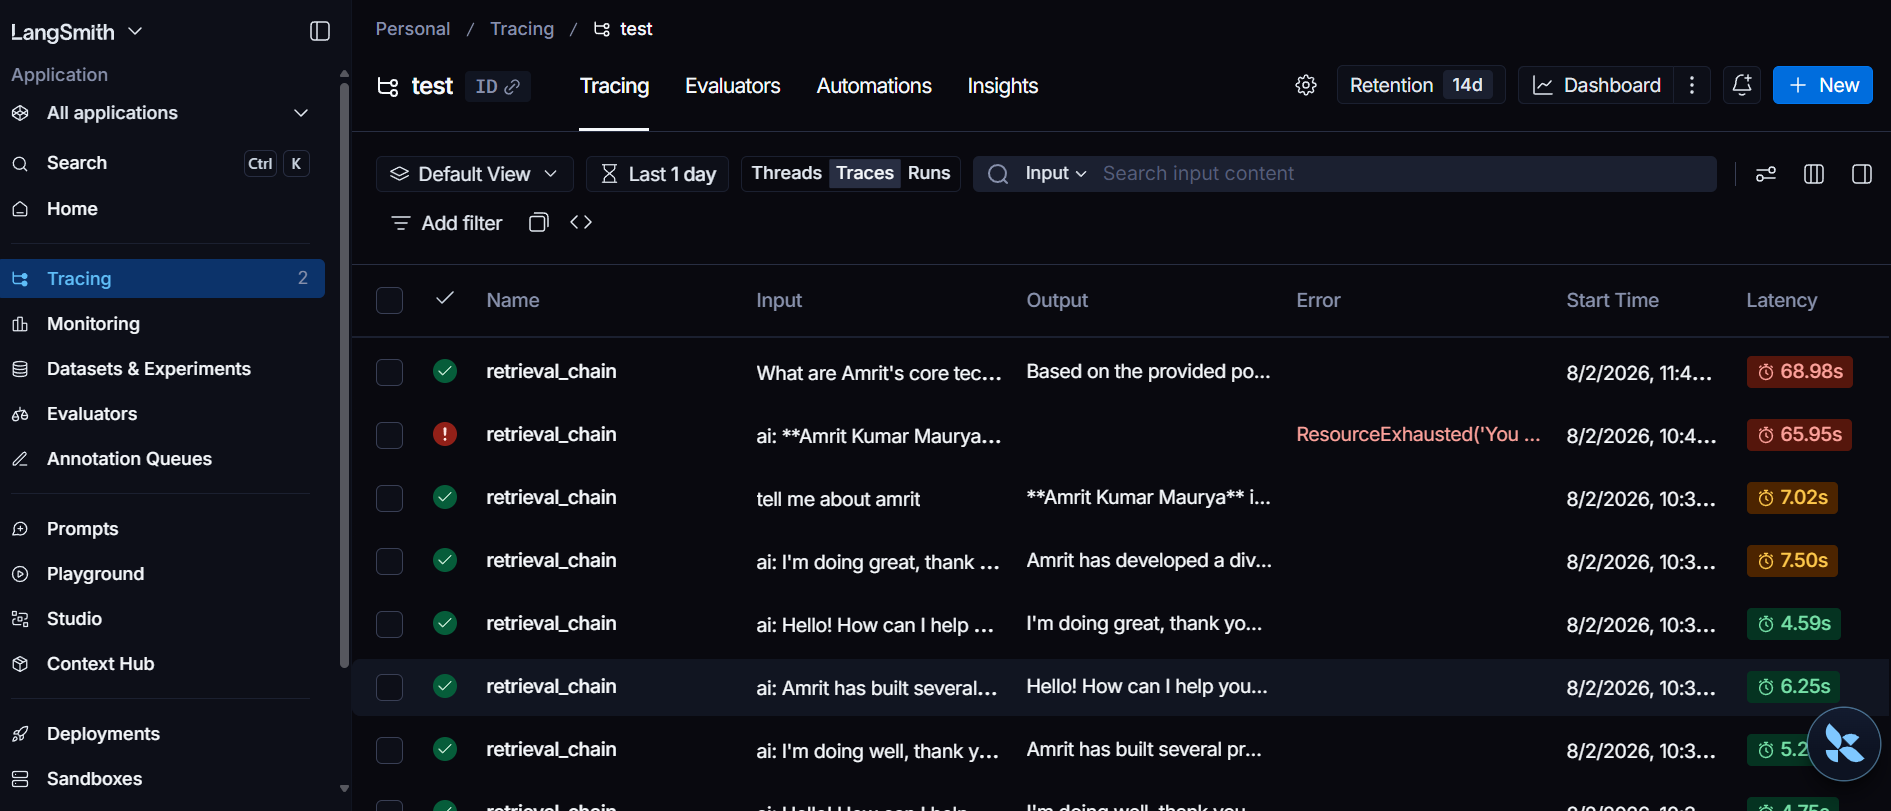
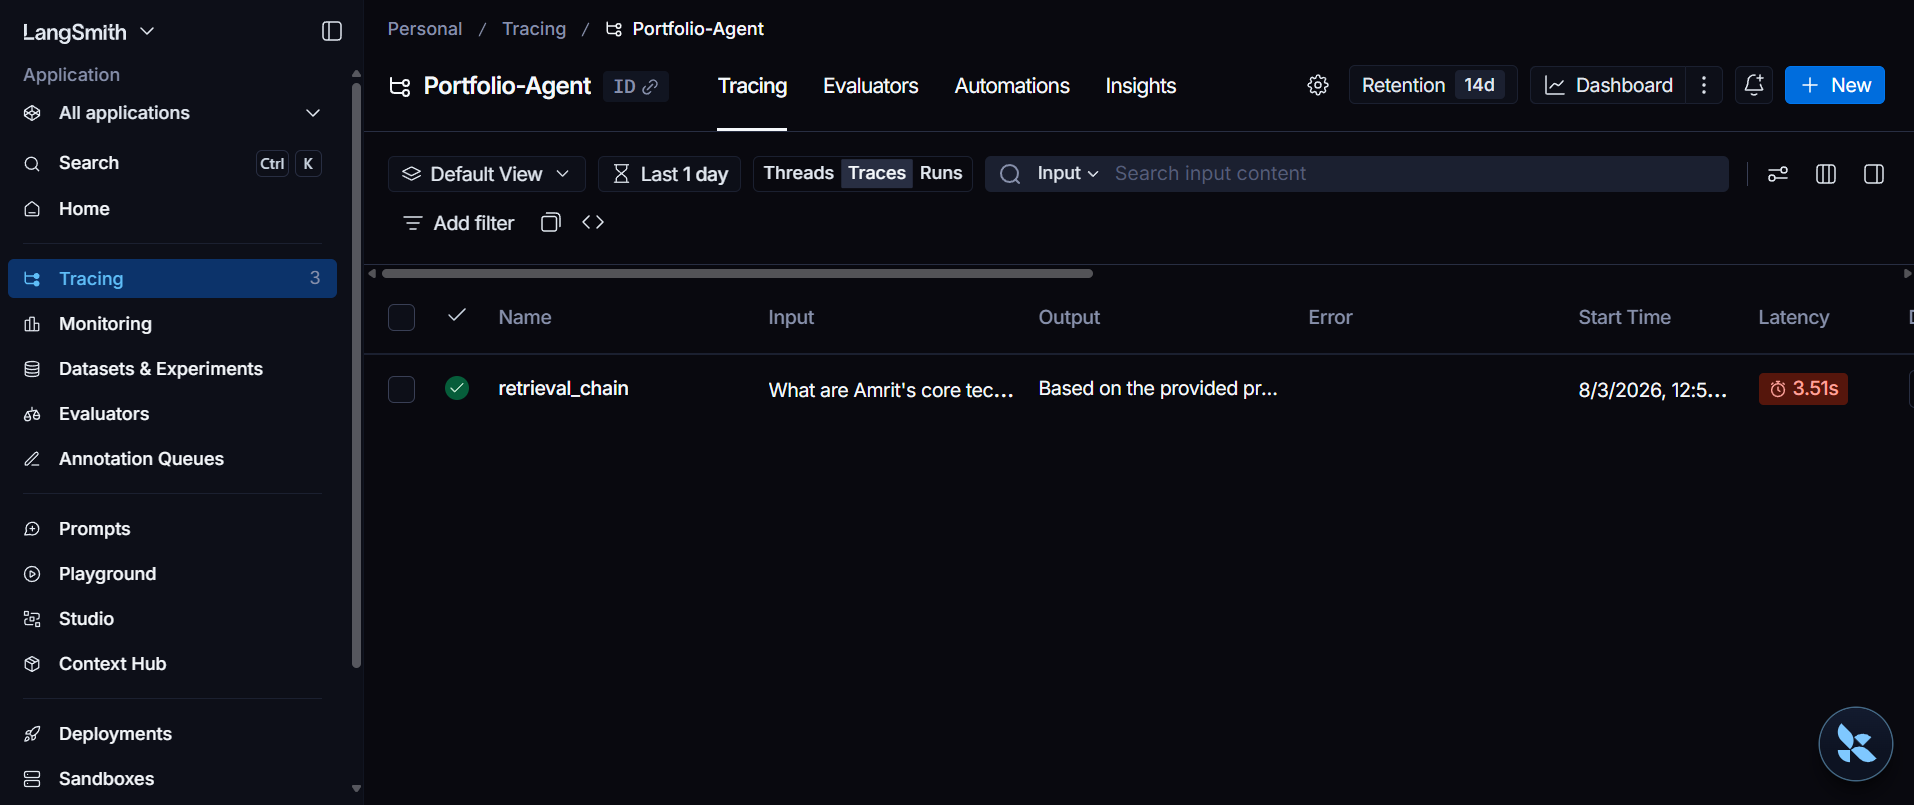
updated readme file

diff --git a/README.md b/README.md
@@ -1,73 +1,131 @@
-# A RAG application using LangChain
-## RAG Project Description
-This project shows a LangChain retrieval pipeline served with FastAPI + Strawberry GraphQL with vector search in Pinecone and displayed via a Flask frontend application.
-<br>    
-Please find it hosted here: 
-<br>
-### A Screenshot of the Application
+# A RAG Application Using LangChain
+
+[![Python](https://img.shields.io/badge/Python-3.12%2B-blue?logo=python&logoColor=white)](https://python.org)
+[![FastAPI](https://img.shields.io/badge/FastAPI-0.116.1%2B-009688?logo=fastapi&logoColor=white)](https://fastapi.tiangolo.com)
+[![Flask](https://img.shields.io/badge/Flask-2.2.5%2B-000000?logo=flask&logoColor=white)](https://flask.palletsprojects.com)
+[![LangChain](https://img.shields.io/badge/LangChain-0.3.27-1C3C3A)](https://github.com/langchain-ai/langchain)
+[![Pinecone](https://img.shields.io/badge/Pinecone-VectorDB-emerald)](https://pinecone.io)
+
+This project showcases a Retrieval-Augmented Generation (RAG) pipeline utilizing a LangChain retrieval architecture. The backend is served via **FastAPI + Strawberry GraphQL** (with vector search in **Pinecone**), and the user interface is built on **Flask**.
+
+🔗 **Live Deployment:** [portfolio-agent-sk6z.onrender.com](https://portfolio-agent-sk6z.onrender.com/)
+
+---
+
+## 📱 Application Preview
+
 ![A screenshot of the application](images/main_app.png)
-A screenshot of the application is shown above. The user enters a question in the text area and clicks the "Ask" button. The question is sent to the FastAPI backend which calls the function to start executing the LangChain retrieval chain. The answer is returned through the same pipeline and displayed on the Flask Frontend application.     
-<br>
-The RAG application uses my personal website https://amrit-2002.github.io/Portfolio/ as the source of information to answer questions. The website is crawled and the contents are stored in Pinecone for later retrieval.
-<br>
 
-### The Indexing Process
+The RAG application uses my personal website [amrit-2002.github.io/Portfolio](https://amrit-2002.github.io/Portfolio/) as the source of information to answer questions. The website is crawled, chunked, embedded, and stored in Pinecone for semantic retrieval.
+
+### Try Asking:
+* *"What projects are on his website?"*
+* *"What tools does he use for data engineering?"*
+
+---
+
+## ⚙ How It Works
+
+### 1. The Indexing Process
 ![Abstract tech background](images/indexing.png)
-A crawler crawls my website to get all loadable links. Then the contents of the links are loaded and chunked for easier processing by the models. Embedding are created from the chunks and stored in Pinecone for later retrieval.
+A crawler crawls the target website to discover all loadable links. The contents of these pages are extracted, chunked for context-window optimization, converted into vector embeddings using Google's `gemini-embedding-2-preview` model, and stored in a Pinecone vector database.
 
-### Try asking
-1. “What projects are on his website?”    
-1. “What tools does he use for data engineering?”    
-
-### The Question-and-Answer Process
+### 2. The Question-and-Answer Process
 ![Abstract tech background](images/retrieval.png)
-The question is entered into the Flask frontend application. It's sent to the FastAPI GraphQL backend which calls the function to start executing the LangChain retrieval chain. An embedding is created from the question and a similarity search done in Pinecone to find semantically related text to the question.      
-<br>
-This context is added to the question to create a prompt for Google's Gemini Flash chat model to generate the answers. The answer is returned through the same pipeline and displayed on the Flask Frontend application.     
-<br>
-This RAG application can be used for any website. Just change the website in the code on GitHub.
+When a user enters a question, the Flask frontend sends a request to the FastAPI GraphQL backend. The backend computes the embedding of the query, performs a similarity search in Pinecone to find the most relevant context, and passes both the query and context to Google's Gemini Flash chat model to generate a factual response.
 
-### To run the application
-1. Clone the repository
-1. Install the required packages using `pip install -r requirements.txt`
-1. Set the required environment variables in a `.env` file:
-   - GOOGLE_API_KEY=Your_Google_API_key
-   - PINECONE_API_KEY=Your_Pinecone_API_key
-   - LANGSMITH_API_KEY=Your_Pinecone_environment
-   - LANGSMITH_TRACING=true
-1. Run the FastAPI backend using `uvicorn app.backend:app --host 0.0.0.0 --port 8000 --timeout-keep-alive 200`
-1. Run the Flask frontend using `python web/frontend_app.py` for development or `gunicorn -w 4 -b 127.0.0.1:5070 "web.frontend_app:app" --timeout 300` for production.
-1. Go to `http://localhost:5070` to access the application
+---
 
-### Why LangChain?
-LangChain provides built-in retrieval chain helpers (`create_history_aware_retriever`, `create_retrieval_chain`, `create_stuff_documents_chain`) that handle the standard RAG pattern out of the box, including reformulating follow-up questions into standalone queries using chat history. It also integrates with LangSmith, which traces all activities on the application and gives insight on what is going on. See the screenshot below of the tracing of the application on LangSmith — note that detailed traces require a paid LangSmith account.
-![LangSmith tracing of the application](images/langsmith.png)   
+## 🚀 Getting Started
 
-We can see the steps of the application and how long each step took. This is useful for debugging and optimizing the application. We can also see the inputs and outputs of each step, which is useful for understanding how the application works.
-![LangSmith tracing of the application](images/langsmith_trace.png)   
+### Prerequisites
+You will need API keys for the following services:
+* **Google Gemini AI** (for embedding generation and chat responses)
+* **Pinecone** (vector search database)
+* **LangSmith** (optional, for tracing and observability)
 
-For more complex agentic applications where explicit state management and branching control flow matter, LangGraph would be a natural next step on top of LangChain.     
+### Installation & Setup
 
-### Note
-You'll need the necessary API keys and access to the services used in this project in your environment to run it.
-I recommend using a virtual environment for better dependency management. The process is:
-```
-python3.13 -m venv .venv
-source .venv/bin/activate
-pip install -U pip
-pip install -r requirements.txt
-```
+1. **Clone the repository:**
+   ```bash
+   git clone https://github.com/Amrit-2002/portfolio-agent
+   cd portfolio-agent
+   ```
 
-### Technologies Used
-- LangChain
-- LangSmith
-- FastAPI
-- Strawberry GraphQL
-- Flask
-- Pinecone
-- Google Gemini Flash 3.5 model
-- Python
-- HTML/CSS/JavaScript
-- Google's gemini-embedding-2-preview model
-- BeautifulSoup
-- Python-dotenv
+2. **Set up a Virtual Environment:**
+   * **Windows (PowerShell):**
+     ```powershell
+     python -m venv .venv
+     .venv\Scripts\activate
+     ```
+   * **macOS / Linux:**
+     ```bash
+     python3 -m venv .venv
+     source .venv/bin/activate
+     ```
+
+3. **Install Dependencies:**
+   ```bash
+   pip install --upgrade pip
+   pip install -r requirements.txt
+   ```
+
+4. **Configure Environment Variables:**
+   Create a `.env` file in the root directory:
+   ```env
+   GOOGLE_API_KEY=Your_Google_API_key
+   PINECONE_API_KEY=Your_Pinecone_API_key
+   LANGSMITH_API_KEY=Your_LangSmith_API_key
+   LANGSMITH_TRACING=true
+   ```
+
+### Running the Application Locally
+
+1. **Start the FastAPI Backend:**
+   ```bash
+   python -m uvicorn app.backend:app --host 127.0.0.1 --port 8000 --reload
+   ```
+
+2. **Start the Flask Frontend:**
+   ```bash
+   python web/frontend_app.py
+   ```
+
+3. **Access the Web App:**
+   Open your browser and navigate to `http://localhost:5070`
+
+---
+
+## 🌐 Deployment on Render
+
+This project is configured to run on Render's **Free Tier** in a single consolidated service to minimize cold starts and resource consumption.
+
+### Setup Settings:
+* **Language:** `Python 3`
+* **Build Command:** `pip install -r requirements.txt`
+* **Start Command:** `chmod +x start.sh && ./start.sh`
+* **Configured via:** [`.python-version`](file:///.python-version) (forces Python `3.12.10`) and [`start.sh`](file:///start.sh) (runs both processes concurrently).
+
+---
+
+## 🛠 Technologies Used
+
+* **Orchestration:** LangChain, LangSmith (tracing)
+* **API & Backend:** FastAPI, Strawberry GraphQL
+* **Frontend:** Flask, HTML5, Vanilla CSS, JavaScript
+* **Models:** Google Gemini Flash 3.5, Google gemini-embedding-2-preview
+* **Database:** Pinecone Vector Database
+* **Crawling & Parsers:** BeautifulSoup4, Requests
+
+---
+
+## 🔍 Tracing & Observability with LangSmith
+
+LangChain integrates seamlessly with LangSmith to trace performance, step runtimes, inputs, and outputs across the chain.
+
+![LangSmith tracing of the application](images/langsmith.png)
+
+*Detailed breakdown of LLM inputs, outputs, and retrieved document chunks:*
+![LangSmith tracing of the application](images/langsmith_trace.png)
+
+*(Note: LangSmith tracing requires a LangSmith account).*
